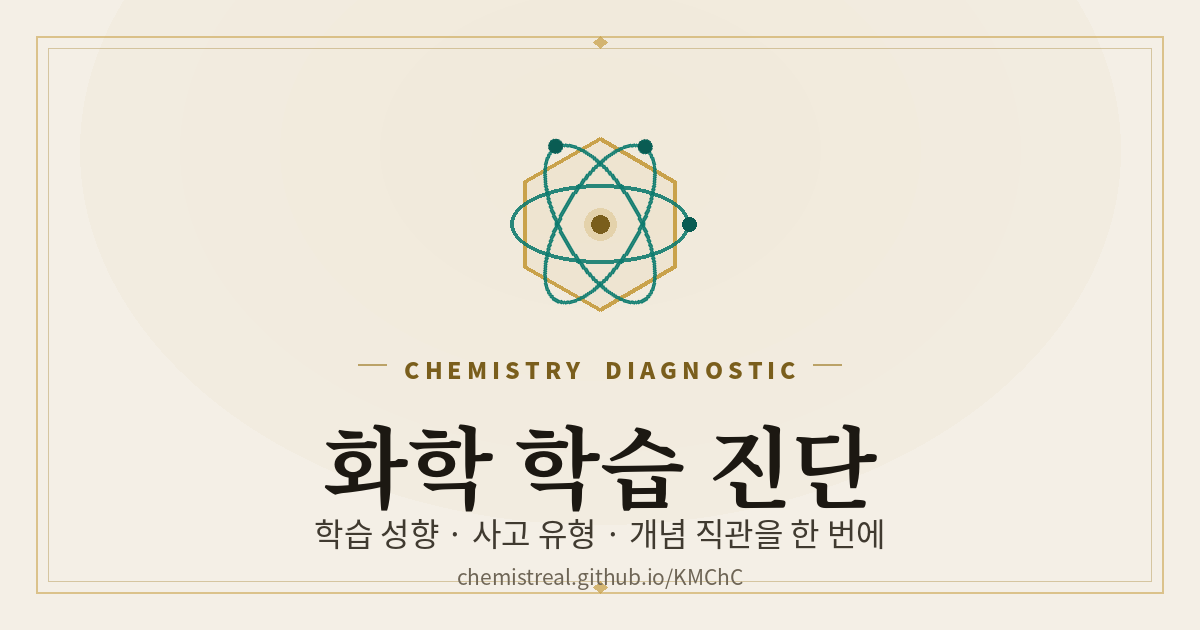
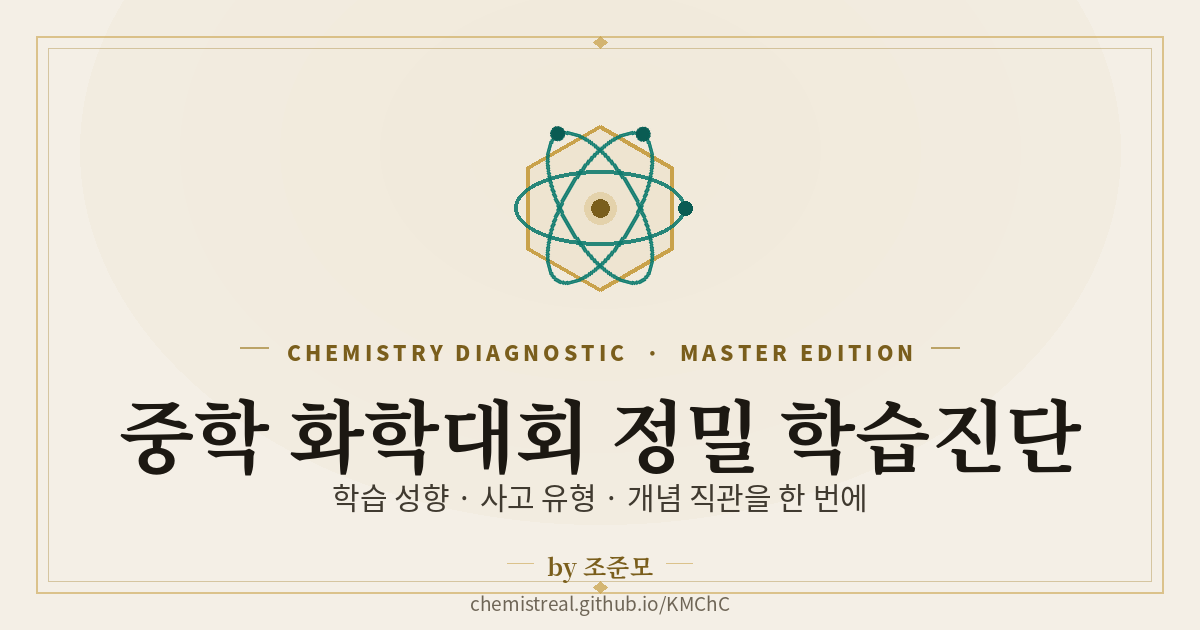
Add files via upload

Changed region(s): [[0.0925, 0.6333, 0.8942, 0.9952], [0.4317, 0.181, 0.5858, 0.5127], [0.2158, 0.5429, 0.7708, 0.6032]]

diff --git a/answers.html b/answers.html
@@ -1,6 +1,6 @@
 <!DOCTYPE html>
 <html lang="ko">
-<head><meta charset="utf-8"><meta name="viewport" content="width=device-width,initial-scale=1"><meta name="theme-color" content="#F4EFE6"><title>문항별 응답 기록</title><meta property="og:type" content="website"><meta property="og:url" content="https://chemistreal.github.io/KMChC/answers.html"><meta property="og:title" content="화학 학습 진단 · 응답 상세"><meta property="og:description" content="문항별 응답을 확인하는 페이지입니다."><meta property="og:image" content="https://chemistreal.github.io/KMChC/og.png"><meta property="og:image:width" content="1200"><meta property="og:image:height" content="630"><meta property="og:locale" content="ko_KR"><meta name="twitter:card" content="summary_large_image"><meta name="twitter:image" content="https://chemistreal.github.io/KMChC/og.png"><link rel="preconnect" href="https://fonts.googleapis.com"><link rel="preconnect" href="https://fonts.gstatic.com" crossorigin><link href="https://fonts.googleapis.com/css2?family=Hahmlet:wght@300;400;500;600;700&family=IBM+Plex+Sans+KR:wght@300;400;500;600&family=IBM+Plex+Mono:wght@400;500;600&display=swap" rel="stylesheet"><style>
+<head><meta charset="utf-8"><meta name="viewport" content="width=device-width,initial-scale=1"><meta name="theme-color" content="#F4EFE6"><title>문항별 응답 기록</title><meta property="og:type" content="website"><meta property="og:url" content="https://chemistreal.github.io/KMChC/answers.html"><meta property="og:title" content="중학 화학대회 정밀 학습진단 · 응답 상세"><meta property="og:description" content="문항별 응답을 확인하는 페이지입니다."><meta property="og:image" content="https://chemistreal.github.io/KMChC/og.png"><meta property="og:image:width" content="1200"><meta property="og:image:height" content="630"><meta property="og:locale" content="ko_KR"><meta name="twitter:card" content="summary_large_image"><meta name="twitter:image" content="https://chemistreal.github.io/KMChC/og.png"><link rel="preconnect" href="https://fonts.googleapis.com"><link rel="preconnect" href="https://fonts.gstatic.com" crossorigin><link href="https://fonts.googleapis.com/css2?family=Hahmlet:wght@300;400;500;600;700&family=IBM+Plex+Sans+KR:wght@300;400;500;600&family=IBM+Plex+Mono:wght@400;500;600&display=swap" rel="stylesheet"><style>
 :root{
  --paper:#F4EFE6;--paper-2:#FBF8F1;--paper-3:#EFE7D6;
  --ink:#1C1812;--ink-2:#403A30;--ink-soft:#2A241B;--muted:#857B6B;--grey:#9A917F;
